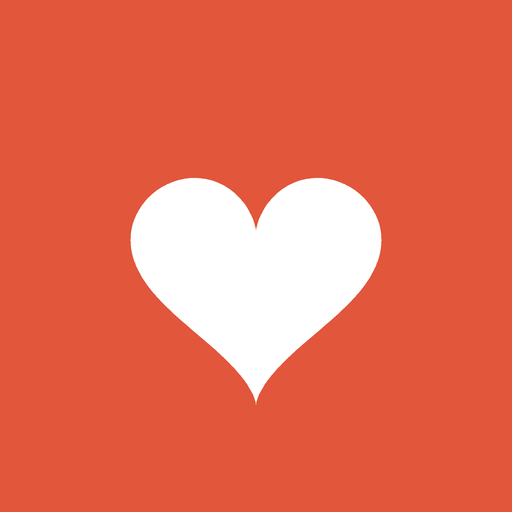
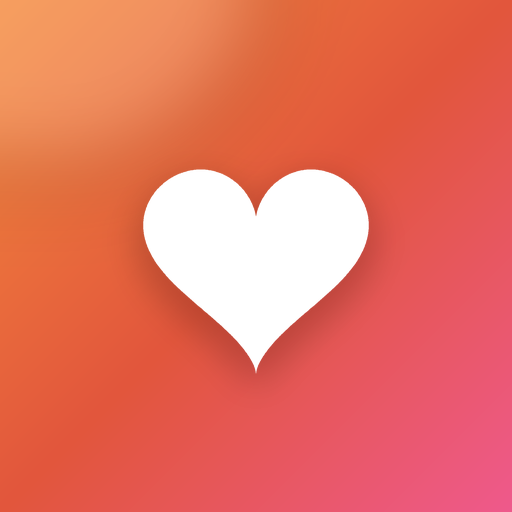
v7: instalacao na tela (Android/iPhone), icones novos, dominio semprecontigo.com.br

diff --git a/src/telas/Chegada.tsx b/src/telas/Chegada.tsx
@@ -5,7 +5,8 @@ import { Carregando, Erro, FluxoTopo, Moldura, Selo } from '../componentes/base'
 import { Cadeado, Celular, Compartilhar, Coracao, Envelope, Lixo, Mais, Ok, OlhoNao, Pontos } from '../componentes/icones';
 import { dados } from '../lib/dados';
 import { useSessao } from '../lib/sessao';
-import { CHAVE_CONVITE, CHAVE_EMAIL, CHAVE_INSTALACAO_VISTA, ehIphone, estaInstalado, local } from '../lib/util';
+import { instalarDireto, useInstalacao } from '../lib/instalacao';
+import { CHAVE_CONVITE, CHAVE_EMAIL, CHAVE_INSTALACAO_VISTA, ehIphone, local } from '../lib/util';
 
 /* =========================================================================
    Chegada: boas-vindas → e-mail → código (ou link). Guarda o token do convite
@@ -238,22 +239,32 @@ export function Consentir() {
 }
 
 /* =========================================================================
-   Instalar: o gesto é diferente no iPhone e no Android, então mostramos os dois.
+   Instalar: no Android abrimos a caixa nativa de instalação; no iPhone o
+   caminho é Compartilhar → Adicionar à Tela de Início. Já instalado, só segue.
    ========================================================================= */
 export function Instalar() {
   const nav = useNavigate();
+  const { instalado, direto } = useInstalacao();
   const [plat, setPlat] = useState<'ios' | 'android'>(ehIphone() ? 'ios' : 'android');
-  const instalado = estaInstalado();
+  const [estado, setEstado] = useState<'inicio' | 'abrindo' | 'aceito' | 'recusado'>('inicio');
   const sair = () => { local.gravar(CHAVE_INSTALACAO_VISTA, true); nav('/', { replace: true }); };
 
-  if (instalado) {
+  const instalarAgora = async () => {
+    setEstado('abrindo');
+    const r = await instalarDireto();
+    setEstado(r === 'aceito' ? 'aceito' : 'recusado');
+  };
+
+  if (instalado || estado === 'aceito') {
     return (
       <Moldura>
         <motion.div initial={{ opacity: 0, y: 10 }} animate={{ opacity: 1, y: 0 }} transition={{ duration: 0.3 }}>
-          <Selo confete={false} />
-          <h1 className="centro">O Contigo já está na sua tela.</h1>
-          <p className="lead centro">Ele fica a um toque, como qualquer app.</p>
-          <div className="pe"><button className="btn btn-coral" onClick={sair}>Continuar</button></div>
+          <Selo confete={estado === 'aceito'} />
+          <h1 className="centro">{estado === 'aceito' ? 'Pronto! O Contigo está na sua tela.' : 'O Contigo já está na sua tela.'}</h1>
+          <p className="lead centro">{estado === 'aceito'
+            ? 'Agora abra pelo ícone, como qualquer app — você já está conectado(a) lá.'
+            : 'Ele fica a um toque, como qualquer app.'}</p>
+          <div className="pe"><button className="btn btn-coral" onClick={sair}>Continuar por aqui</button></div>
         </motion.div>
       </Moldura>
     );
@@ -275,19 +286,51 @@ export function Instalar() {
     <Moldura>
       <motion.div initial={{ opacity: 0, y: 10 }} animate={{ opacity: 1, y: 0 }} transition={{ duration: 0.3 }}>
         <h1>Coloque o Contigo na sua tela</h1>
-        <p className="fraco">Assim ele fica a um toque, como qualquer app.</p>
-        <div className="plataforma" role="tablist">
-          <motion.i className="marcador" animate={{ left: plat === 'ios' ? 4 : 'calc(50% + 2px)' }} transition={{ type: 'spring', stiffness: 500, damping: 38 }} />
-          <button className={plat === 'ios' ? 'ativa' : ''} onClick={() => setPlat('ios')}>iPhone</button>
-          <button className={plat === 'android' ? 'ativa' : ''} onClick={() => setPlat('android')}>Android</button>
-        </div>
-        <div className="cartao">
-          {passos.map(([ico, t, s], i) => (
-            <div className="passo-inst" key={i}><div className="num">{i + 1}</div><div className="ico">{ico}</div><p>{t}<span>{s}</span></p></div>
-          ))}
-        </div>
+        <p className="fraco">Assim ele abre com um toque, sem navegador, como qualquer app.</p>
+
+        {direto ? (
+          <>
+            <div className="cartao instalar-direto">
+              <div className="icone-app"><Coracao /></div>
+              <div>
+                <b>Contigo</b>
+                <p className="pequeno fraco" style={{ margin: 0 }}>{window.location.host}</p>
+              </div>
+              <motion.button whileTap={{ scale: 0.97 }} className="btn btn-coral" style={{ width: 'auto', minHeight: 40, padding: '0 16px' }}
+                disabled={estado === 'abrindo'} onClick={instalarAgora}>
+                {estado === 'abrindo' ? 'Abrindo…' : 'Instalar'}
+              </motion.button>
+            </div>
+            {estado === 'recusado' && <p className="pequeno fraco centro">Sem problema. Dá para fazer depois, na aba "Eu".</p>}
+            <details className="detalhes" style={{ marginTop: 12 }}>
+              <summary>Se o botão não aparecer ou não funcionar</summary>
+              <div className="cartao" style={{ marginTop: 8 }}>
+                {android.map(([ico, t, sub], i) => (
+                  <div className="passo-inst" key={i}><div className="num">{i + 1}</div><div className="ico">{ico}</div><p>{t}<span>{sub}</span></p></div>
+                ))}
+              </div>
+            </details>
+          </>
+        ) : (
+          <>
+            <div className="plataforma" role="tablist">
+              <motion.i className="marcador" animate={{ left: plat === 'ios' ? 4 : 'calc(50% + 2px)' }} transition={{ type: 'spring', stiffness: 500, damping: 38 }} />
+              <button className={plat === 'ios' ? 'ativa' : ''} onClick={() => setPlat('ios')}>iPhone</button>
+              <button className={plat === 'android' ? 'ativa' : ''} onClick={() => setPlat('android')}>Android</button>
+            </div>
+            <div className="cartao">
+              {passos.map(([ico, t, sub], i) => (
+                <div className="passo-inst" key={i}><div className="num">{i + 1}</div><div className="ico">{ico}</div><p>{t}<span>{sub}</span></p></div>
+              ))}
+            </div>
+            {plat === 'ios' && (
+              <p className="nota" style={{ marginTop: 10 }}>Se você abriu este link pelo WhatsApp ou pelo Instagram, toque primeiro em "Abrir no Safari" — o botão Compartilhar só aparece lá.</p>
+            )}
+          </>
+        )}
+
         <div className="pe">
-          <button className="btn btn-coral" onClick={sair}>Já coloquei na tela</button>
+          {!direto && <button className="btn btn-coral" onClick={sair}>Já coloquei na tela</button>}
           <button className="btn btn-texto" onClick={sair}>Fazer isso depois</button>
         </div>
       </motion.div>

diff --git a/src/lib/instalacao.ts b/src/lib/instalacao.ts
@@ -1,0 +1,62 @@
+import { useEffect, useReducer } from 'react';
+import { CHAVE_INSTALACAO_VISTA, estaInstalado, local } from './util';
+
+/**
+ * Instalação "de verdade" na tela do celular.
+ *
+ * No Android (Chrome, Edge, Samsung) o navegador avisa que o app pode ser
+ * instalado (`beforeinstallprompt`); guardamos esse aviso e mostramos um
+ * botão nosso, que abre a caixa nativa de instalação. No iPhone não existe
+ * esse caminho — lá é sempre Compartilhar → Adicionar à Tela de Início.
+ */
+type EventoInstalar = Event & {
+  prompt: () => Promise<void>;
+  userChoice: Promise<{ outcome: 'accepted' | 'dismissed' }>;
+};
+
+const CHAVE_DISPENSADO = 'contigo.instalar.dispensado';
+
+let evento: EventoInstalar | null = null;
+let instaladoAgora = false;
+const ouvintes = new Set<() => void>();
+const avisar = () => ouvintes.forEach(f => f());
+
+/** Chamar uma vez, antes de o React desenhar: o aviso do navegador chega cedo. */
+export function prepararInstalacao() {
+  window.addEventListener('beforeinstallprompt', e => {
+    e.preventDefault();               // segura o banner do navegador; mostramos o nosso
+    evento = e as EventoInstalar;
+    avisar();
+  });
+  window.addEventListener('appinstalled', () => {
+    evento = null; instaladoAgora = true;
+    local.gravar(CHAVE_INSTALACAO_VISTA, true);
+    avisar();
+  });
+}
+
+export function podeInstalarDireto() { return evento !== null; }
+
+export async function instalarDireto(): Promise<'aceito' | 'recusado' | 'indisponivel'> {
+  if (!evento) return 'indisponivel';
+  const e = evento;
+  await e.prompt();
+  const { outcome } = await e.userChoice;
+  if (outcome === 'accepted') { evento = null; instaladoAgora = true; local.gravar(CHAVE_INSTALACAO_VISTA, true); }
+  avisar();
+  return outcome === 'accepted' ? 'aceito' : 'recusado';
+}
+
+export function dispensarLembrete() { local.gravar(CHAVE_DISPENSADO, true); avisar(); }
+
+/** Estado vivo para as telas. */
+export function useInstalacao() {
+  const [, forcar] = useReducer((n: number) => n + 1, 0);
+  useEffect(() => { ouvintes.add(forcar); return () => { ouvintes.delete(forcar); }; }, []);
+  const instalado = estaInstalado() || instaladoAgora;
+  return {
+    instalado,
+    direto: !instalado && podeInstalarDireto(),
+    lembrar: !instalado && podeInstalarDireto() && !local.ler<boolean>(CHAVE_DISPENSADO, false),
+  };
+}

diff --git a/src/estilo.css b/src/estilo.css
@@ -228,6 +228,17 @@ p{ margin:0 0 9px; }
 .plataforma button{ flex:1; min-height:36px; border:0; border-radius:10px; background:none; font-weight:700; font-size:14px; color:var(--tinta-fraca); cursor:pointer; position:relative; z-index:1; }
 .plataforma button.ativa{ color:var(--coral-esc); }
 .plataforma .marcador{ position:absolute; top:4px; bottom:4px; width:calc(50% - 6px); border-radius:10px; background:var(--cartao); box-shadow:0 2px 6px rgba(63,43,38,.10); }
+.instalar-direto{ display:flex; align-items:center; gap:12px; padding:12px 14px; }
+.instalar-direto .icone-app{ width:48px; height:48px; border-radius:14px; background:linear-gradient(135deg,var(--laranja),var(--coral) 55%,var(--rosa)); color:#fff; display:flex; align-items:center; justify-content:center; flex:none; box-shadow:0 6px 14px -6px rgba(196,67,45,.6); }
+.instalar-direto .icone-app svg{ width:24px; height:24px; }
+.instalar-direto > div:nth-child(2){ flex:1; min-width:0; }
+.instalar-direto b{ font-size:16px; display:block; }
+.lembrete-instalar{ display:flex; align-items:center; gap:10px; background:var(--ambar-tint); border:1px solid #F5D9A6; border-radius:14px; padding:10px 12px; margin:0 0 12px; }
+.lembrete-instalar .icone-app{ width:34px; height:34px; border-radius:10px; background:linear-gradient(135deg,var(--laranja),var(--coral) 55%,var(--rosa)); color:#fff; display:flex; align-items:center; justify-content:center; flex:none; }
+.lembrete-instalar .icone-app svg{ width:17px; height:17px; }
+.lembrete-instalar p{ margin:0; font-size:13.5px; line-height:1.3; flex:1; }
+.lembrete-instalar .btn{ width:auto; min-height:34px; padding:0 12px; font-size:13.5px; }
+.lembrete-instalar .fechar{ background:none; border:0; color:var(--tinta-fraca); font-size:18px; line-height:1; padding:4px; cursor:pointer; }
 .passo-inst{ display:flex; gap:11px; align-items:center; padding:10px 0; border-bottom:1px solid var(--linha); }
 .passo-inst:last-child{ border-bottom:0; }
 .passo-inst .num{ width:26px; height:26px; border-radius:50%; background:var(--coral); color:#fff; font-weight:700; display:flex; align-items:center; justify-content:center; flex:none; font-size:13px; }

diff --git a/src/telas/Hoje.tsx b/src/telas/Hoje.tsx
@@ -2,7 +2,8 @@ import { motion } from 'framer-motion';
 import { useState, type ReactElement } from 'react';
 import { useLocation, useNavigate, useParams } from 'react-router-dom';
 import { CORES_HUMOR, Carregando, Erro, FluxoTopo, LinhaAcao, Moldura, Respiracao, Selo, Semana } from '../componentes/base';
-import { Carinha, Lapis, Lua, Sol, TrilhaIco, Vento } from '../componentes/icones';
+import { Carinha, Coracao, Lapis, Lua, Sol, TrilhaIco, Vento } from '../componentes/icones';
+import { dispensarLembrete, instalarDireto, useInstalacao } from '../lib/instalacao';
 import { dados } from '../lib/dados';
 import { useCarregar } from '../lib/hooks';
 import { useSessao } from '../lib/sessao';
@@ -28,6 +29,20 @@ function semana(historico: TCheckin[]) {
 }
 
 /* ========================= Hoje ========================= */
+/** Lembrete discreto: só aparece quando o navegador diz que dá para instalar e ainda não está na tela. */
+function LembreteInstalar() {
+  const { lembrar } = useInstalacao();
+  if (!lembrar) return null;
+  return (
+    <motion.div className="lembrete-instalar" initial={{ opacity: 0, y: -6 }} animate={{ opacity: 1, y: 0 }}>
+      <div className="icone-app"><Coracao /></div>
+      <p><b>Coloque o Contigo na tela.</b><br />Abre com um toque, como um app.</p>
+      <button className="btn btn-coral" onClick={() => { void instalarDireto(); }}>Instalar</button>
+      <button className="fechar" aria-label="Agora não" onClick={dispensarLembrete}>×</button>
+    </motion.div>
+  );
+}
+
 export function Hoje() {
   const { conta, demo } = useSessao();
   const nav = useNavigate();
@@ -65,6 +80,7 @@ export function Hoje() {
   return (
     <Moldura comTopo comAbas>
       {demo && <span className="selo-demo">Demonstração · dados só neste aparelho</span>}
+      <LembreteInstalar />
       <motion.section className={'heroi ' + momento} initial={{ opacity: 0, y: 10 }} animate={{ opacity: 1, y: 0 }} transition={{ duration: 0.35 }}>
         <i className="bolha b1" /><i className="bolha b2" />
         <h1>{saudacao()}, {primeiroNome(conta?.nome)}.</h1>

diff --git a/vite.config.ts b/vite.config.ts
@@ -9,6 +9,7 @@ export default defineConfig({
       registerType: 'autoUpdate',
       includeAssets: ['icones/apple-touch-icon.png'],
       manifest: {
+        id: '/',
         name: 'Contigo',
         short_name: 'Contigo',
         description: 'Conte comigo, estou contigo!',
@@ -16,7 +17,10 @@ export default defineConfig({
         start_url: '/',
         scope: '/',
         display: 'standalone',
+        display_override: ['standalone', 'minimal-ui'],
         orientation: 'portrait',
+        categories: ['health', 'lifestyle'],
+        prefer_related_applications: false,
         background_color: '#FFF9F4',
         theme_color: '#FFF9F4',
         icons: [
@@ -24,10 +28,17 @@ export default defineConfig({
           { src: 'icones/icone-512.png', sizes: '512x512', type: 'image/png' },
           { src: 'icones/icone-512-maskable.png', sizes: '512x512', type: 'image/png', purpose: 'maskable' },
         ],
+        // Com capturas, o Android mostra a caixa de instalação completa (com prévia), não só a barrinha.
+        screenshots: [
+          { src: 'capturas/hoje.png', sizes: '540x1080', type: 'image/png', form_factor: 'narrow', label: 'Como você acordou hoje? Vinte segundos por dia.' },
+          { src: 'capturas/trilhas.png', sizes: '540x1080', type: 'image/png', form_factor: 'narrow', label: 'Trilhas curtas, escritas por psicólogos.' },
+          { src: 'capturas/conversar.png', sizes: '540x1080', type: 'image/png', form_factor: 'narrow', label: 'Vamos conversar: gente de verdade quando precisa.' },
+        ],
       },
       workbox: {
         // A casca do app fica em cache; o dado vem sempre do banco.
         globPatterns: ['**/*.{js,css,html,png,svg,woff2}'],
+        globIgnores: ['**/capturas/**'],
         navigateFallback: '/index.html',
         navigateFallbackDenylist: [/^\/rest\//, /^\/auth\//],
       },

diff --git a/src/main.tsx b/src/main.tsx
@@ -2,6 +2,7 @@ import { StrictMode } from 'react';
 import { createRoot } from 'react-dom/client';
 import { registerSW } from 'virtual:pwa-register';
 import App from './App';
+import { prepararInstalacao } from './lib/instalacao';
 import '@fontsource/atkinson-hyperlegible/400.css';
 import '@fontsource/atkinson-hyperlegible/700.css';
 import '@fontsource/atkinson-hyperlegible/400-italic.css';
@@ -10,6 +11,7 @@ import './estilo.css';
 
 // A casca do app fica em cache e se atualiza sozinha quando sai versão nova.
 registerSW({ immediate: true });
+prepararInstalacao();
 
 createRoot(document.getElementById('raiz')!).render(
   <StrictMode>

diff --git a/ferramentas/gerar_icones.py b/ferramentas/gerar_icones.py
@@ -1,0 +1,60 @@
+"""Gera os ícones do Contigo (gradiente coral → rosa, coração branco).
+Uso: python3 ferramentas/gerar_icones.py   (escreve em public/icones e public/capturas)
+"""
+from PIL import Image, ImageDraw, ImageFilter
+import numpy as np, math, os
+
+RAIZ = os.path.join(os.path.dirname(__file__), '..', 'public')
+CORAL = (226, 86, 60); LARANJA = (245, 138, 60); ROSA = (239, 90, 140)
+
+def gradiente(n):
+    y, x = np.mgrid[0:n, 0:n].astype(float) / (n - 1)
+    t = np.clip((x + y) / 2, 0, 1)[..., None]           # diagonal 135°
+    a = np.array(LARANJA, float); b = np.array(CORAL, float); c = np.array(ROSA, float)
+    cor = np.where(t < 0.5, a + (b - a) * (t / 0.5), b + (c - b) * ((t - 0.5) / 0.5))
+    return Image.fromarray(cor.astype('uint8'), 'RGB')
+
+def coracao(n, escala, dy=0.03):
+    """Máscara de coração centrado, ocupando `escala` do lado."""
+    ss = 4; N = n * ss
+    m = Image.new('L', (N, N), 0); d = ImageDraw.Draw(m)
+    pts = []
+    for i in range(720):
+        t = i / 720 * 2 * math.pi
+        x = 16 * math.sin(t) ** 3
+        y = 13 * math.cos(t) - 5 * math.cos(2 * t) - 2 * math.cos(3 * t) - math.cos(4 * t)
+        pts.append((x, -y))
+    xs = [p[0] for p in pts]; ys = [p[1] for p in pts]
+    w = max(xs) - min(xs); h = max(ys) - min(ys); s = N * escala / max(w, h)
+    cx = N / 2; cy = N / 2 + N * dy - (max(ys) + min(ys)) / 2 * s
+    d.polygon([(cx + x * s, cy + y * s) for x, y in pts], fill=255)
+    return m.resize((n, n), Image.LANCZOS)
+
+def arredondar(im, raio):
+    n = im.size[0]; m = Image.new('L', (n * 4, n * 4), 0)
+    ImageDraw.Draw(m).rounded_rectangle([0, 0, n * 4 - 1, n * 4 - 1], radius=raio * 4, fill=255)
+    m = m.resize((n, n), Image.LANCZOS)
+    out = Image.new('RGBA', (n, n), (0, 0, 0, 0)); out.paste(im, (0, 0), m); return out
+
+def icone(n, escala, sombra=True):
+    base = gradiente(n).convert('RGBA')
+    # brilho suave no canto
+    brilho = Image.new('RGBA', (n, n), (0, 0, 0, 0)); bd = ImageDraw.Draw(brilho)
+    bd.ellipse([-n * 0.35, -n * 0.55, n * 0.55, n * 0.35], fill=(255, 255, 255, 46))
+    brilho = brilho.filter(ImageFilter.GaussianBlur(n * 0.08))
+    base.alpha_composite(brilho)
+    m = coracao(n, escala)
+    if sombra:
+        sm = Image.new('RGBA', (n, n), (0, 0, 0, 0)); sm.paste((126, 36, 23, 90), (0, int(n * 0.03)), m)
+        base.alpha_composite(sm.filter(ImageFilter.GaussianBlur(n * 0.035)))
+    branco = Image.new('RGBA', (n, n), (255, 255, 255, 255))
+    base.paste(branco, (0, 0), m)
+    return base
+
+os.makedirs(os.path.join(RAIZ, 'icones'), exist_ok=True)
+arredondar(icone(512, 0.60), 112).save(os.path.join(RAIZ, 'icones', 'icone-512.png'))
+arredondar(icone(192, 0.60), 42).save(os.path.join(RAIZ, 'icones', 'icone-192.png'))
+icone(512, 0.44).save(os.path.join(RAIZ, 'icones', 'icone-512-maskable.png'))   # zona segura: 40% central
+icone(180, 0.60).convert('RGB').save(os.path.join(RAIZ, 'icones', 'apple-touch-icon.png'))  # iOS aplica a própria máscara
+arredondar(icone(64, 0.62, sombra=False), 14).save(os.path.join(RAIZ, 'icones', 'favicon.png'))
+print('ícones gerados')
